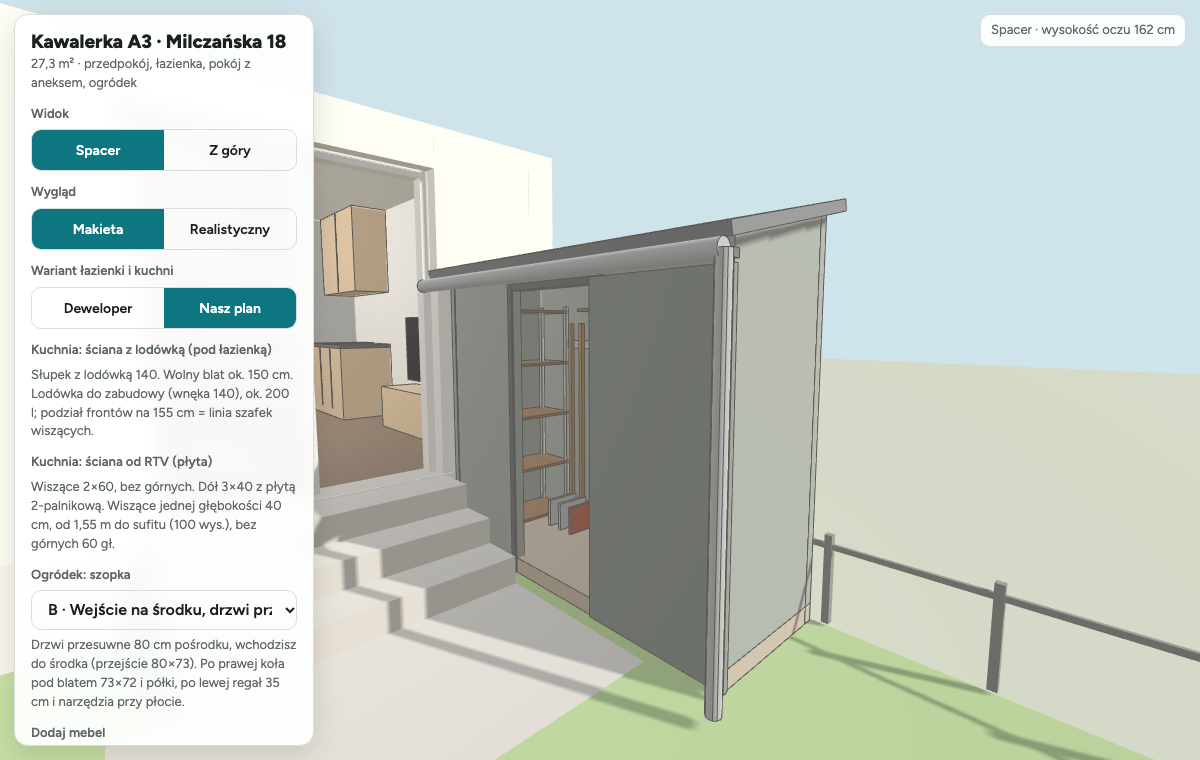
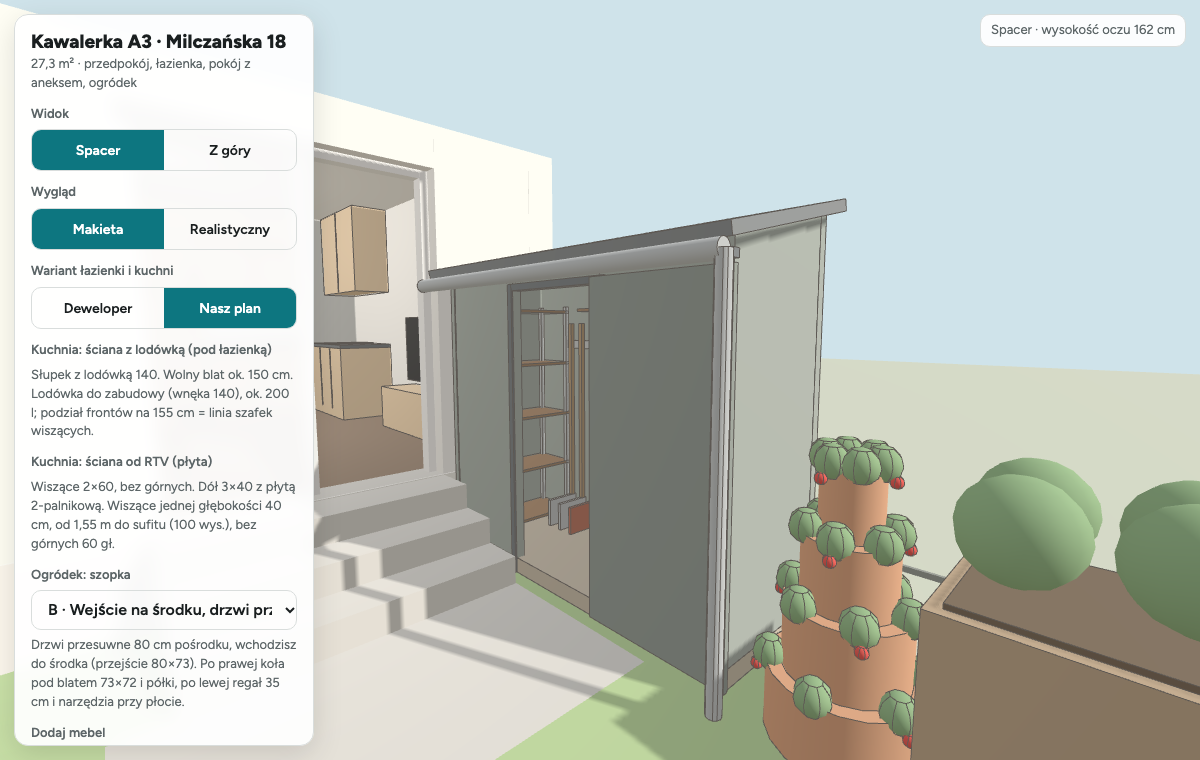
popraw uklad w ogrodzie

Changed region(s): [[0.4933, 0.575, 1.0, 1.0]]

diff --git a/index.html b/index.html
@@ -237,11 +237,12 @@ R('smPolka','Półki nad blatem (2×, gł. 30)','rack',3.56,4.29,9.04,9.34,.37,C
 R('smRegal','Regał 73×35 na ścianie od budynku','rack',3.56,4.29,7.06,7.41,1.80,COL.wood);RX({levels:[.16,.55,.95,1.35,1.75],posts:true,face:'+z',shed:'srodek'});
 R('smNarz','Narzędzia ogrodowe na ścianie przy płocie','tools',3.99,4.29,7.44,7.80,1.65,0x7a5a3a);RX({face:'-x',shed:'srodek'});
 R('smPolkaS','Półka nad wejściem przy płocie (gł. 25)','rack',4.04,4.29,7.80,8.60,.2,COL.wood);RX({y:1.7,levels:[1.75],face:'-x',shed:'srodek'});
-// ogródek: warzywnik (propozycja 22.11.2026, v:'all') – skrzynie podwyższone w L przy płocie po prawej (x=0) i tylnym, środek wolny (ok. 2,8×3,2 m trawy)
-// skrzynie 80 cm szer. (dostęp z jednej strony), 75 cm wys.; pole crop: 'pom' (pomidory na tyczkach) | 'pap' (papryki)
-R('gPom','Skrzynia podwyższona 240×80 – pomidory','raised',-.10,2.30,11.35,12.15,.75,0x8a6a4a);RX({crop:'pom'});
-R('gPap','Skrzynia podwyższona 200×80 – papryki','raised',-.10,.70,9.35,11.35,.75,0x8a6a4a);RX({crop:'pap'});
-R('gTrusk','Wieża truskawkowa Ø60, 4 poziomy','strawtower',.15,.75,8.45,9.05,1.10,0xb4643e);
+// ogródek: warzywnik (układ właścicieli 22.11.2026, v:'all') – skrzynie podwyższone 80 cm szer., 75 cm wys.: pomidory przy tylnym płocie,
+// papryki przy lewym płocie (x≈4,25, za szopką), mała 80×80 w tylnym narożniku przy x=0; pole crop: 'pom' (pomidory na tyczkach) | 'pap' (papryki)
+R('gPom','Skrzynia podwyższona 240×80 – pomidory','raised',1.00,3.40,11.35,12.15,.75,0x8a6a4a);RX({crop:'pom'});
+R('gPap','Skrzynia podwyższona 200×80 – papryki','raised',3.45,4.25,10.15,12.15,.75,0x8a6a4a);RX({crop:'pap'});
+R('gMala','Skrzynia podwyższona 80×80 – mała','raised',-.10,.70,11.35,12.15,.75,0x8a6a4a);RX({crop:'pap'});
+R('gTrusk','Wieża truskawkowa Ø60, 4 poziomy','strawtower',3.35,3.95,9.55,10.15,1.10,0xb4643e);
 // wersje kuchni „Nasz plan” – osobno dla każdej ściany (listy rozwijane).
 // Nowa wersja = nowy wpis + meble z polem fr:'<id>' (ściana z lodówką) albo rtv:'<id>' (ściana od RTV)
 const FRIDGE_WALL=[
@@ -868,11 +869,10 @@ function makeReal(){
   for(let i=0;i<5;i++)mesh(foliage((.55+r()*.35)*s,seed+i),MAT.leaves,x+(r()-.5)*.9*s,GY+(2.1+r()*1.1)*s,z+(r()-.5)*.9*s,base)};
  const tr=rngOf('las');
  for(let i=0;i<34;i++){const a=tr()*Math.PI*1.25-Math.PI*.12,d=13+tr()*22,x=2.1+Math.cos(a)*d,z=7+Math.sin(a)*d;if(z<7.5)continue;tree(x,z,1.3+tr()*1.4,'f'+i)}
- // stolik i dwa krzesła na tarasie (u dołu stopni)
- const tz=8.5;mesh(new THREE.CylinderGeometry(.3,.3,.02,32),MAT.fence,2.3,GY+.72,tz,base);mesh(new THREE.CylinderGeometry(.02,.02,.7,10),MAT.fence,2.3,GY+.36,tz,base);mesh(new THREE.CylinderGeometry(.2,.2,.02,24),MAT.fence,2.3,GY+.01,tz,base);
- [[1.82,tz,Math.PI/2],[2.78,tz,-Math.PI/2]].forEach(([x,z,ry])=>{const c=new THREE.Group();c.position.set(x,GY,z);c.rotation.y=ry;base.add(c);
+ // stolik i dwa krzesła u dołu stopni, po stronie przeciwnej do szopki (przy płocie x=0; 22.11.2026)
+ const tx=.75,tz=8.5;mesh(new THREE.CylinderGeometry(.3,.3,.02,32),MAT.fence,tx,GY+.72,tz,base);mesh(new THREE.CylinderGeometry(.02,.02,.7,10),MAT.fence,tx,GY+.36,tz,base);mesh(new THREE.CylinderGeometry(.2,.2,.02,24),MAT.fence,tx,GY+.01,tz,base);
+ [[tx-.48,tz,Math.PI/2],[tx+.48,tz,-Math.PI/2]].forEach(([x,z,ry])=>{const c=new THREE.Group();c.position.set(x,GY,z);c.rotation.y=ry;base.add(c);
   mesh(boxUV(RB(.42,.03,.42,.008,1)),MAT.fence,0,.45,0,c);mesh(boxUV(RB(.42,.4,.03,.008,1)),MAT.fence,0,.68,-.2,c);[[-.19,-.19],[.19,-.19],[-.19,.19],[.19,.19]].forEach(([a,b])=>mesh(new THREE.CylinderGeometry(.012,.012,.45,8),MAT.fence,a,.225,b,c))});
- plantInto(base,1.35,GY,7.25,.7,rngOf('pot1'),.4);
  // elewacja budynku (3 kondygnacje) z oknami sąsiadów
  const fz=6.95;wbox(-9,1.72,GY-.02,9.4,fz,fz+.04,MAT.plaster,upper);wbox(3.42,13,GY-.02,9.4,fz,fz+.04,MAT.plaster,upper);
  wbox(-.25,4.5,GY-.05,-.005,6.7,6.95,MAT.plaster2,base); // cokół pod podłogą mieszkania (widoczny też z góry)wbox(1.72,3.42,GDOOR,9.4,fz,fz+.04,MAT.plaster,upper);

diff --git a/CLAUDE.md b/CLAUDE.md
@@ -103,7 +103,7 @@ na etapie koncepcji, przed decyzjami instalacyjnymi. Interfejs i komentarze po p
   (x 0–0,32, z 0,32–0,62, wymiar przyjęty, do zmierzenia) z płytką szafką 28 cm przed nią. „Deweloper” = szafa 2,40 m.
 
 - Poziom ogródka (22.11.2026): mieszkanie jest wyżej, z drzwi tarasowych prowadzą 3 stopnie. Stałe `RISE`, `GY`, `STEPS`; `floorAt(x,z)` daje wysokość podłoża
-  (0 / stopień / `GY`) – meble w ogródku stawiane są na niej w obu builderach, spacer podnosi/obniża oczy płynnie. Taras z płyt (stolik) u dołu stopni, z 7,90–9,00.
+  (0 / stopień / `GY`) – meble w ogródku stawiane są na niej w obu builderach, spacer podnosi/obniża oczy płynnie. Stolik z 2 krzesłami (dekoracja trybu realistycznego) u dołu stopni po stronie przeciwnej do szopki, przy płocie x=0 (środek x 0,75, z 8,50).
 
 - Ogródek „szopka” (22.11.2026, koncepcja, v:'all'): wąska 85×240 przy płocie sąsiada i elewacji, po LEWEJ po wyjściu na taras (x 3,50–4,35, z 7,00–9,40).
   Pierwsza wersja (160×200 po prawej, id `sz*`) odrzucona – przy wczytaniu usuwana z zapisanego stanu; obecne meble mają id `sw*`.
@@ -117,9 +117,9 @@ na etapie koncepcji, przed decyzjami instalacyjnymi. Interfejs i komentarze po p
   Wnętrze 73 cm szerokości (koło Ø64). Podłoga na podeście 10 cm. Kolizje szopki = ściany (`shedRects`). Z góry: ściany ×0,42, bez dachu.
   Do sprawdzenia przez właścicieli: zgody wspólnoty / regulamin ogródków, MPZP i przepisy o odległości od granicy (2,20 m przy płocie), prąd do warsztatu.
 
-- Ogródek „warzywnik” (22.11.2026, propozycja, v:'all'): skrzynie podwyższone 80 cm szer., 75 cm wys. w L przy płocie po prawej (x≈0) i tylnym,
-  środek wolny (trawa ok. 2,8×3,2 m): `gPom` pomidory 240×80 (x −0,10–2,30, z 11,35–12,15), `gPap` papryki 200×80 (x −0,10–0,70, z 9,35–11,35),
-  `gTrusk` wieża truskawkowa Ø60, wys. 110 (x 0,15–0,75, z 8,45–9,05) blisko tarasu. Lewy tylny narożnik wolny (drzewo usunięte 22.11.2026).
+- Ogródek „warzywnik” (22.11.2026, układ właścicieli, v:'all'): skrzynie podwyższone 80 cm szer., 75 cm wys.:
+  `gPom` pomidory 240×80 przy tylnym płocie (x 1,00–3,40, z 11,35–12,15), `gPap` papryki 200×80 przy lewym płocie za szopką (x 3,45–4,25, z 10,15–12,15),
+  `gMala` mała 80×80 w tylnym narożniku przy x=0 (x −0,10–0,70, z 11,35–12,15), `gTrusk` wieża truskawkowa Ø60, wys. 110 (x 3,35–3,95, z 9,55–10,15) między szopką a papryką.
 
 ## Pomysły na dalsze kroki
 - Łóżko vs sofa rozkładana.
